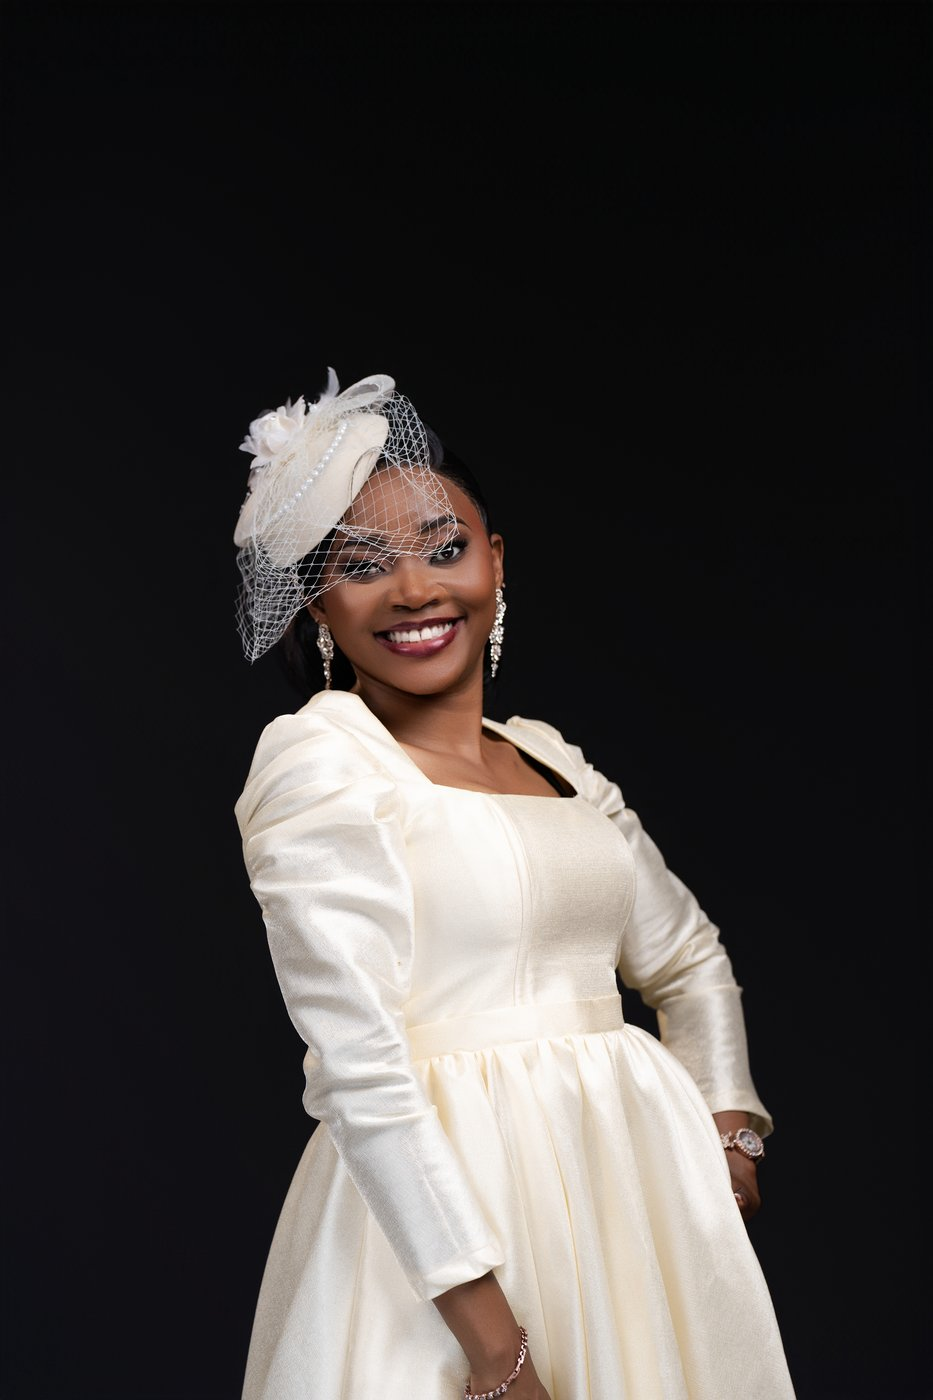
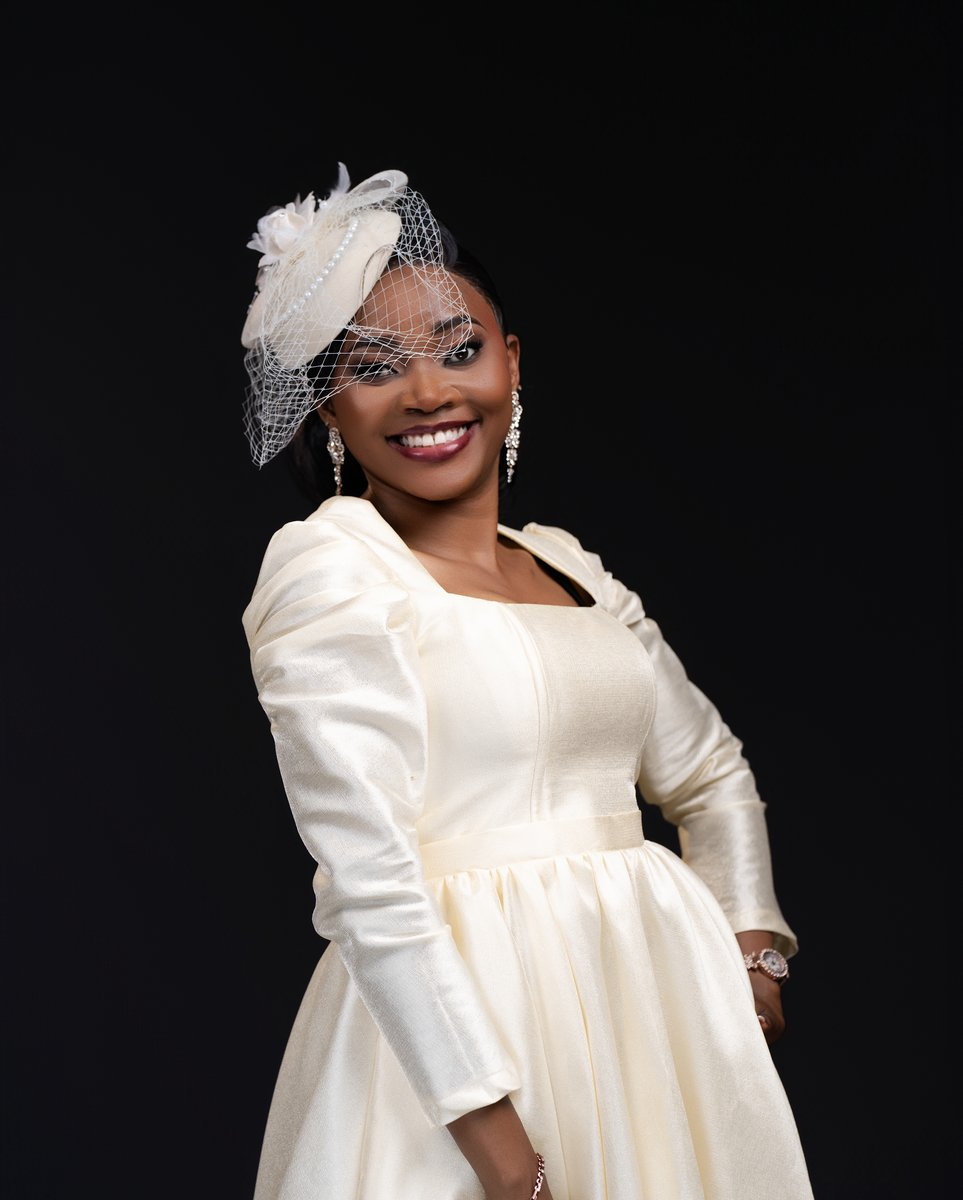
Compact home About section + tighter Studio Shoot-74 crop

diff --git a/index.html b/index.html
@@ -113,10 +113,10 @@
 /* ── ABOUT STRIP ────────────────────────────── */
 .about-strip { background:var(--cream); padding:0; overflow:hidden; }
 .about-strip .grid-2 { gap:0; }
-.about-photo-col { position:relative; overflow:hidden; min-height:580px; }
-.about-photo-col img { width:100%; height:100%; object-fit:cover; object-position:center top; display:block; }
+.about-photo-col { position:relative; overflow:hidden; min-height:480px; }
+.about-photo-col img { width:100%; height:100%; object-fit:cover; object-position:center 18%; display:block; }
 .about-photo-col::after { content:''; position:absolute; inset:0; background:linear-gradient(to right, transparent 70%, var(--cream) 100%); }
-.about-text-col { padding:80px 64px 80px 40px; display:flex; flex-direction:column; justify-content:center; }
+.about-text-col { padding:64px 56px 64px 36px; display:flex; flex-direction:column; justify-content:center; }
 .about-text-col h2 em { color:var(--terra); font-style:normal; }
 .about-tagline {
   font-family:'Space Grotesk', sans-serif;